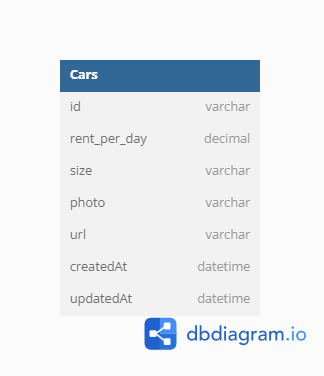
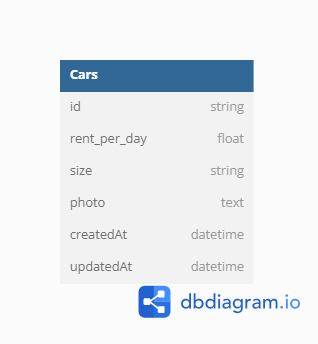
Update: Migrate to PostgreSQL

diff --git a/models/index.js b/models/index.js
@@ -1,0 +1,50 @@
+"use strict";
+
+const fs = require("fs");
+const path = require("path");
+const Sequelize = require("sequelize");
+const process = require("process");
+const basename = path.basename(__filename);
+const env = process.env.NODE_ENV || "development";
+const config = require(__dirname + "/../config/database.js")[env];
+const db = {};
+
+let sequelize;
+if (config.use_env_variable) {
+  sequelize = new Sequelize(process.env[config.use_env_variable], config);
+} else {
+  sequelize = new Sequelize(
+    config.database,
+    config.username,
+    config.password,
+    config
+  );
+}
+
+fs.readdirSync(__dirname)
+  .filter((file) => {
+    return (
+      file.indexOf(".") !== 0 &&
+      file !== basename &&
+      file.slice(-3) === ".js" &&
+      file.indexOf(".test.js") === -1
+    );
+  })
+  .forEach((file) => {
+    const model = require(path.join(__dirname, file))(
+      sequelize,
+      Sequelize.DataTypes
+    );
+    db[model.name] = model;
+  });
+
+Object.keys(db).forEach((modelName) => {
+  if (db[modelName].associate) {
+    db[modelName].associate(db);
+  }
+});
+
+db.sequelize = sequelize;
+db.Sequelize = Sequelize;
+
+module.exports = db;

diff --git a/migrations/20240330221209-create-car.js b/migrations/20240330221209-create-car.js
@@ -1,0 +1,36 @@
+"use strict";
+/** @type {import('sequelize-cli').Migration} */
+module.exports = {
+  async up(queryInterface, Sequelize) {
+    await queryInterface.createTable("Cars", {
+      id: {
+        allowNull: false,
+        primaryKey: true,
+        type: Sequelize.STRING,
+      },
+      name: {
+        type: Sequelize.STRING,
+      },
+      rentPerDay: {
+        type: Sequelize.FLOAT,
+      },
+      size: {
+        type: Sequelize.STRING,
+      },
+      photo: {
+        type: Sequelize.TEXT,
+      },
+      createdAt: {
+        allowNull: false,
+        type: Sequelize.DATE,
+      },
+      updatedAt: {
+        allowNull: false,
+        type: Sequelize.DATE,
+      },
+    });
+  },
+  async down(queryInterface, Sequelize) {
+    await queryInterface.dropTable("Cars");
+  },
+};

diff --git a/seeders/seeder.js b/seeders/seeder.js
@@ -1,12 +1,12 @@
 require("dotenv").config();
 const fs = require("fs");
-const Customer = require("../models/carModels");
+const Car = require("../models/carModels");
 
 const cars = JSON.parse(fs.readFileSync(`${__dirname}/cars.json`, "utf-8"));
 
 const importData = async () => {
   try {
-    await Customer.create(cars);
+    await Car.create(cars);
     console.log("Data Import Succesfully");
   } catch (err) {
     console.log(err);
@@ -16,7 +16,7 @@ const importData = async () => {
 
 const clearData = async () => {
   try {
-    await Customer.deleteMany();
+    await Car.deleteMany();
     console.log("Data Delete Succesfully");
   } catch (err) {
     console.log(err);

diff --git a/controllers/carController.js b/controllers/carController.js
@@ -1,5 +1,6 @@
 const { response } = require("../utils/response");
-const Cars = require("../models/carModels");
+const Cars = require("../models/car");
+const { generateRandomId } = require("../utils/generateId");
 
 const getCars = async (req, res) => {
   try {
@@ -41,7 +42,12 @@ const getCarById = async (req, res) => {
 
 const createCar = async (req, res) => {
   try {
-    const cars = await Cars.create(req.body);
+    const carData = {
+      id: generateRandomId(),
+      ...req.body,
+    };
+
+    const cars = await Cars.create(carData);
 
     response(201, cars, "Success", "Create New Car Data", req, res, false);
   } catch (err) {

diff --git a/models/car.js b/models/car.js
@@ -1,0 +1,26 @@
+'use strict';
+const {
+  Model
+} = require('sequelize');
+module.exports = (sequelize, DataTypes) => {
+  class Car extends Model {
+    /**
+     * Helper method for defining associations.
+     * This method is not a part of Sequelize lifecycle.
+     * The `models/index` file will call this method automatically.
+     */
+    static associate(models) {
+      // define association here
+    }
+  }
+  Car.init({
+    name: DataTypes.STRING,
+    rentPerDay: DataTypes.FLOAT,
+    size: DataTypes.STRING,
+    photo: DataTypes.TEXT
+  }, {
+    sequelize,
+    modelName: 'Car',
+  });
+  return Car;
+};

diff --git a/controllers/carAdminController.js b/controllers/carAdminController.js
@@ -1,4 +1,5 @@
-const Car = require("../models/carModels");
+const Car = require("../models/car");
+const { generateRandomId } = require("../utils/generateId");
 
 const carPage = async (req, res) => {
   try {
@@ -25,7 +26,13 @@ const createCar = async (req, res) => {
   try {
     const image = req.file.path;
 
-    await Car.create(req.body);
+    const carData = {
+      id: generateRandomId(),
+      ...req.body,
+      photo: image,
+    };
+
+    await Car.create(carData);
     req.flash("message", "Ditambah");
     res.redirect("/cars");
   } catch (err) {

diff --git a/config/database.js b/config/database.js
@@ -1,13 +1,12 @@
-const Sequelize = require("sequelize");
+require("dotenv").config();
 
-const DB = new Sequelize(
-  process.env.DB_DATABASE,
-  process.env.DB_USER,
-  process.env.DB_PASSWORD,
-  {
+module.exports = {
+  development: {
+    username: process.env.DB_USERNAME,
+    password: process.env.DB_PASSWORD,
+    database: process.env.DB_NAME,
     host: process.env.DB_HOST,
-    dialect: "mysql",
-  }
-);
-
-module.exports = DB;
+    dialect: "postgres",
+    port: process.env.DB_PORT,
+  },
+};

diff --git a/views/app.js b/views/app.js
@@ -15,6 +15,7 @@ const publicDir = path.resolve(__dirname, "../public");
 // Middleware
 app.use(cors());
 app.use(express.json());
+app.use(express.urlencoded({ extended: false }));
 app.use(morgan("dev"));
 
 // Mengatur folder statis untuk menyajikan file CSS, gambar, dan skrip

diff --git a/server.js b/server.js
@@ -1,5 +1,5 @@
 require("dotenv").config();
-const app = require("./views/scripts/app");
+const app = require("./views/app");
 
 const port = process.env.PORT;
 
